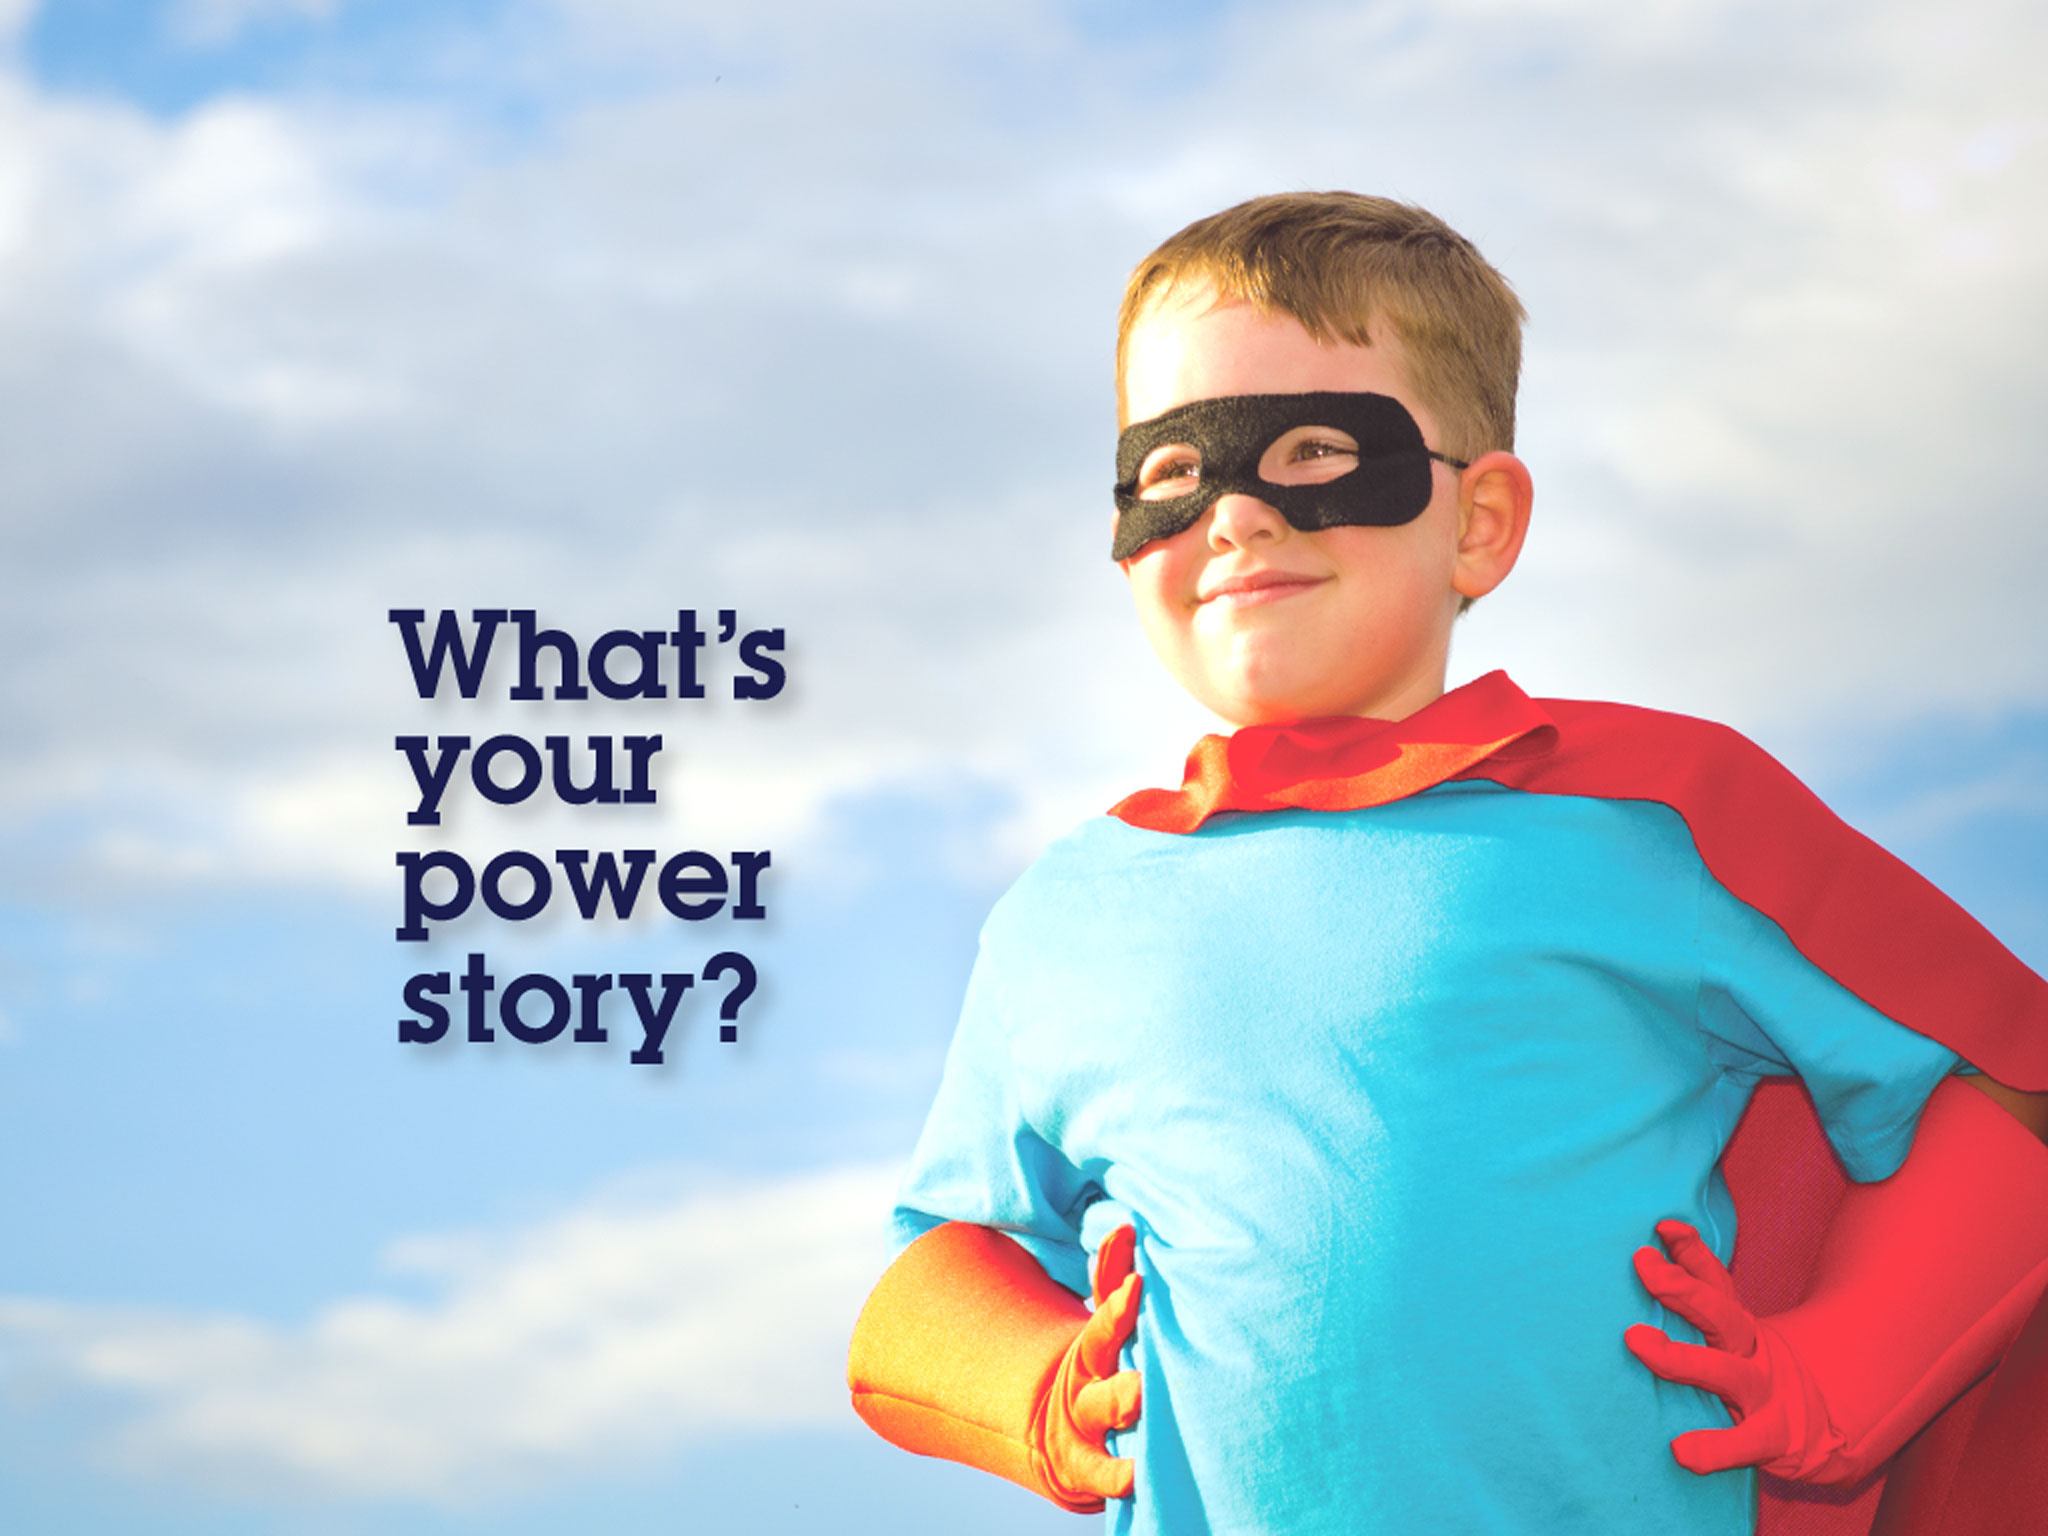
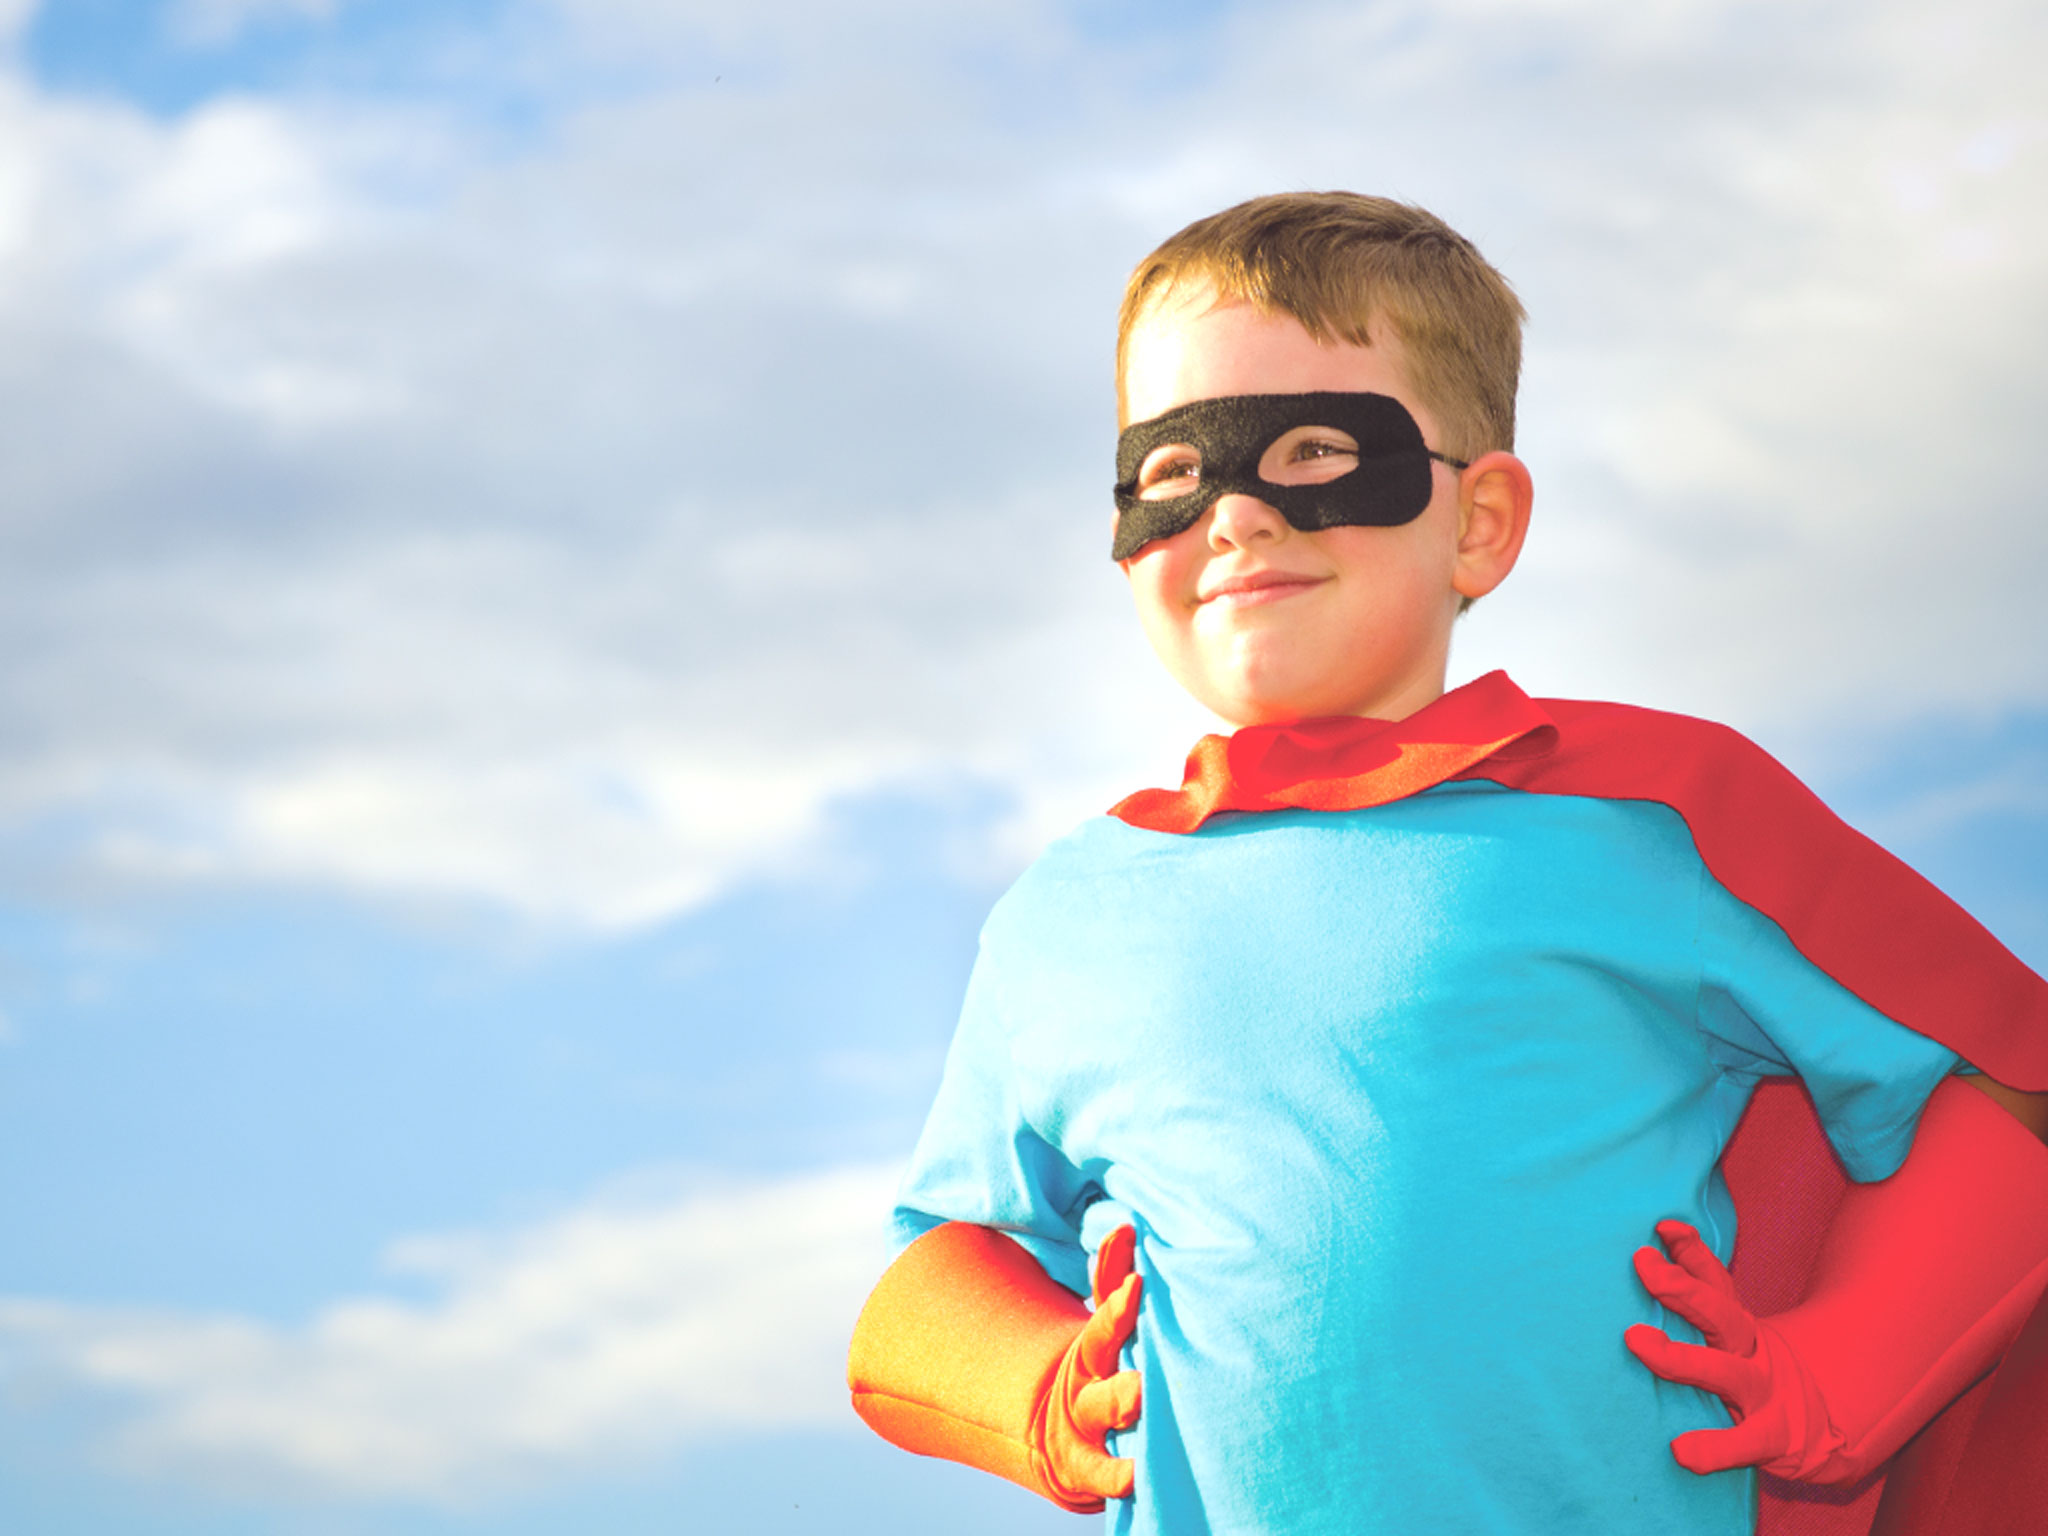
Fixes titles on slideshow

Changed region(s): [[0.1875, 0.375, 0.4062, 0.7188]]

diff --git a/app/assets/javascripts/marketing.js b/app/assets/javascripts/marketing.js
@@ -199,19 +199,25 @@
       var _this = this;
 
       $('p.video-blue-over, p.video-red-over').hide();
+      $('header > .background-text > div').hide();
 
       // Video display with 1 second delay
       window.setTimeout(function() {                
         if (_this.background === 0) {        
-          $('a.brand').removeClass('invert');          
+          $('a.brand').removeClass('invert'); 
+          $('.say-hello').fadeIn();        
         } else if (_this.background === 1) {
           $('video#video-blue').show();
           $('a.brand').addClass('invert');
+          $('.stand-out').fadeIn(); 
           $('p.video-blue-over').fadeIn();
+        } else if (_this.background === 2) {
+          $('.power-story').fadeIn();
         } else if (_this.background === 3) {
           $('a.brand').addClass('invert');
           $('video#video-red').show();
           $('p.video-red-over').fadeIn();
+          $('.find-hook').fadeIn();
         } else {
           $('a.brand').removeClass('invert');
         }

diff --git a/app/assets/stylesheets/bootstrap_and_overrides.css.scss b/app/assets/stylesheets/bootstrap_and_overrides.css.scss
@@ -291,6 +291,35 @@ header {
   padding: 0 !important;
 }
 
+header > .background-text {
+  .say-hello {    
+    position: absolute;
+    top: 34%;
+    left: 12%;
+  }
+
+  .stand-out {
+    display: none;
+    position: absolute;
+    top: 36%;
+    left: 56%;
+  }
+
+  .power-story {
+    display: none;
+    position: absolute;
+    top: 24%;
+    left: 20%;
+  }
+
+  .find-hook {
+    display: none;
+    position: absolute;
+    top: 30%;
+    left: 10%;
+  }
+}
+
 header > .background-images {
   height: 100%;
   width: 400%;
